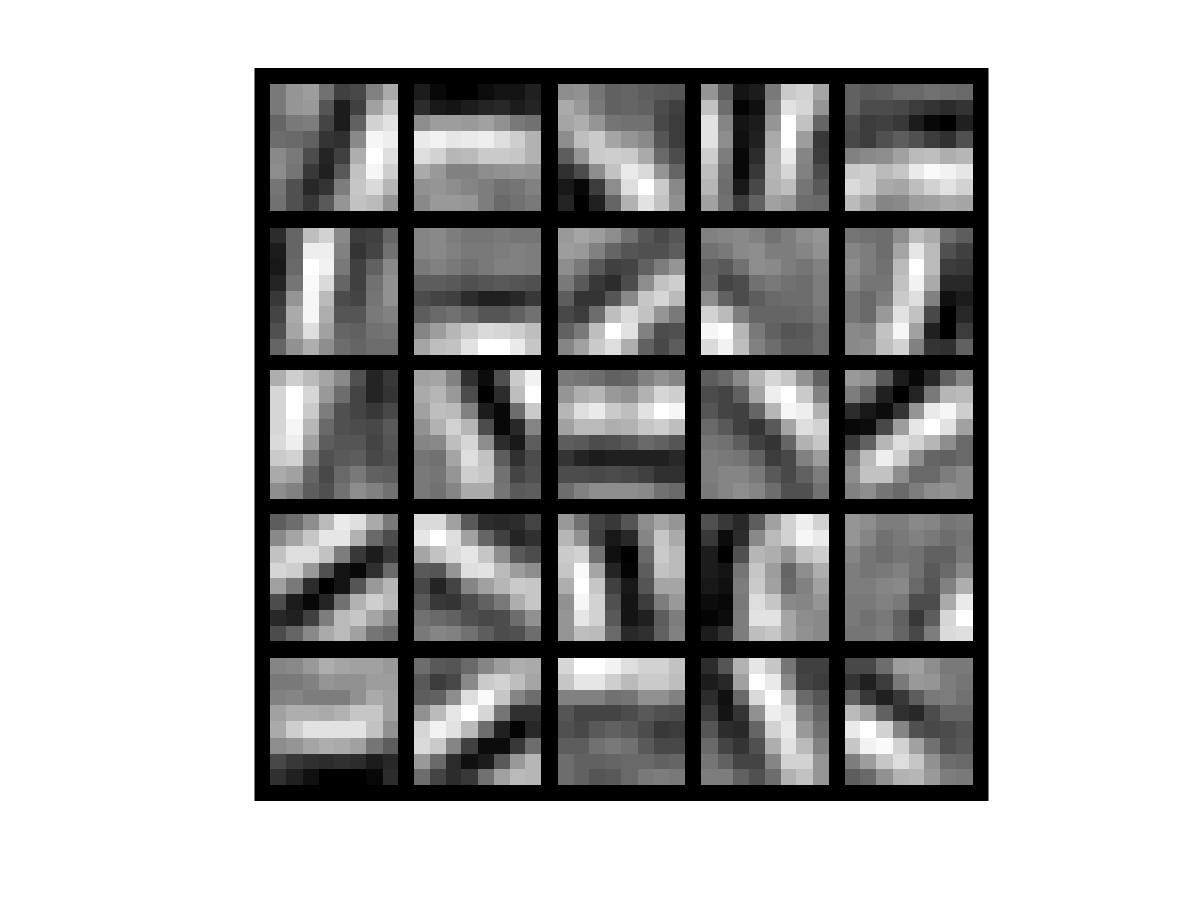
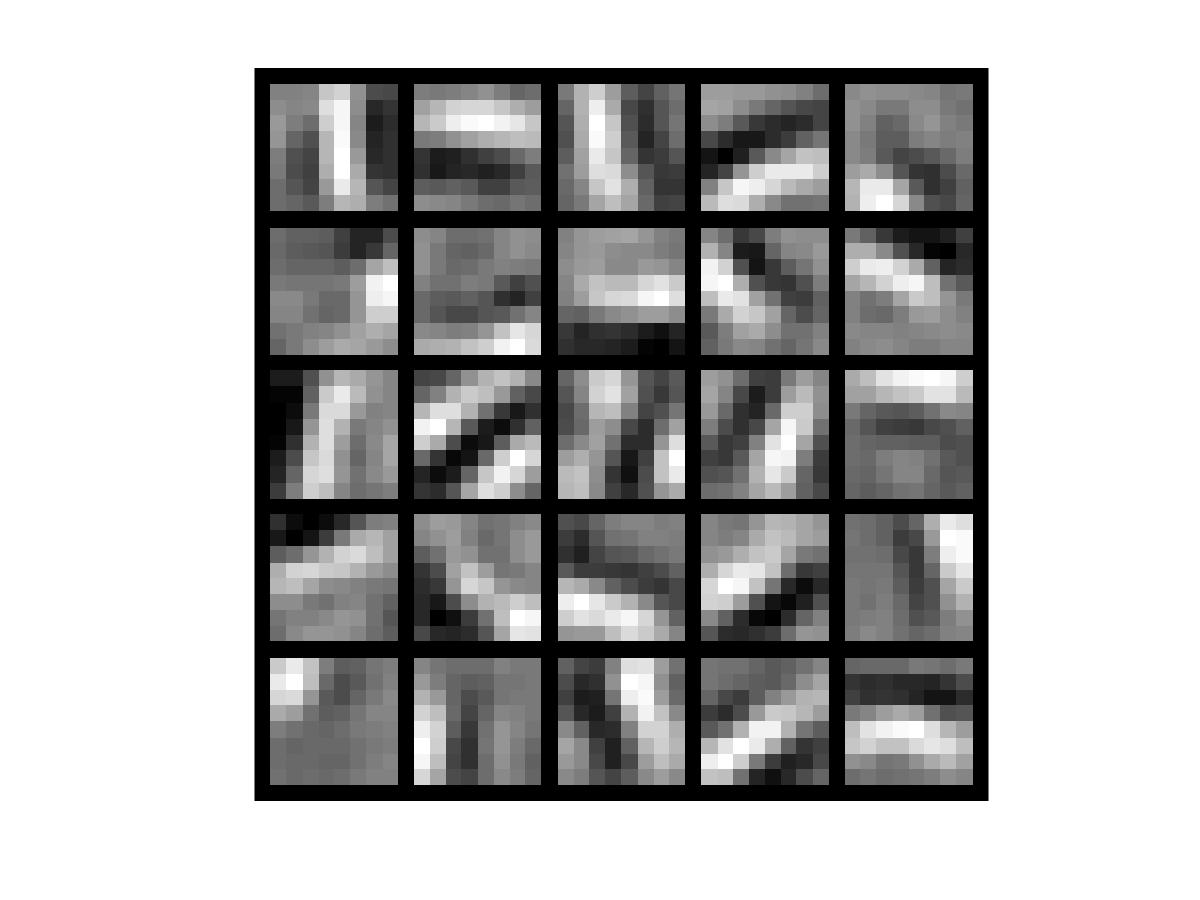
sync.

Changed region(s): [[0.2158, 0.0933, 0.8325, 0.8711]]

diff --git a/Implement deep networks for digit classification/sparseAutoencoderCost_old.m b/Implement deep networks for digit classification/sparseAutoencoderCost_old.m
@@ -48,22 +48,22 @@ z2 = bsxfun(@plus, W1 * data, b1);
 a2 = sigmoid(z2);
 % z3 = W2 * a2 + b2; % 64 * 10000
 z3 = bsxfun(@plus, W2 * a2, b2);
-a3 = sigmoid(z3);
+Ans = sigmoid(z3);
 
 m = size(data, 2);
 
 p = sum(a2, 2) ./ m;
 sp = sparsityParam;
 
-J = sum(sum((a3 - data) .^ 2)) ./ (2 * m) + ...
+J = sum(sum((Ans - data) .^ 2)) ./ (2 * m) + ...
       lambda * (sum(sum(W1 .^ 2)) + sum(sum(W2 .^ 2))) / 2 + ...
       beta * sum(sp .* log(sp ./ p) + (1 - sp) .* log((1 - sp) ./ (1 - p))); 
 
-o3 = (a3 - data) .* dsigmoid(a3);
+o3 = (Ans - data) .* dsigmoid(z3);
 dw2 = o3 * a2';
 db2 = sum(o3, 2);
 o2 = bsxfun(@plus, W2' * o3, beta .* ((1 - sp) ./ (1 - p) - (sp ./ p)));
-o2 = o2 .* dsigmoid(a2);
+o2 = o2 .* dsigmoid(z2);
 dw1 = o2 * data';
 db1 = sum(o2, 2);
 

diff --git a/Self-Taught Learning/sparseAutoencoderCost.m b/Self-Taught Learning/sparseAutoencoderCost.m
@@ -48,22 +48,22 @@ z2 = bsxfun(@plus, W1 * data, b1);
 a2 = sigmoid(z2);
 % z3 = W2 * a2 + b2; % 64 * 10000
 z3 = bsxfun(@plus, W2 * a2, b2);
-Ans = sigmoid(z3);
+a3 = sigmoid(z3);
 
 m = size(data, 2);
 
 p = sum(a2, 2) ./ m;
 sp = sparsityParam;
 
-J = sum(sum((Ans - data) .^ 2)) ./ (2 * m) + ...
+J = sum(sum((a3 - data) .^ 2)) ./ (2 * m) + ...
       lambda * (sum(sum(W1 .^ 2)) + sum(sum(W2 .^ 2))) / 2 + ...
       beta * sum(sp .* log(sp ./ p) + (1 - sp) .* log((1 - sp) ./ (1 - p))); 
 
-o3 = (Ans - data) .* dsigmoid(z3);
+o3 = (a3 - data) .* dsigmoid(a3);
 dw2 = o3 * a2';
 db2 = sum(o3, 2);
 o2 = bsxfun(@plus, W2' * o3, beta .* ((1 - sp) ./ (1 - p) - (sp ./ p)));
-o2 = o2 .* dsigmoid(z2);
+o2 = o2 .* dsigmoid(a2);
 dw1 = o2 * data';
 db1 = sum(o2, 2);
 

diff --git a/Sparse Autoencoder/sparseae_exercise/starter/sparseAutoencoderCost.m b/Sparse Autoencoder/sparseae_exercise/starter/sparseAutoencoderCost.m
@@ -48,22 +48,22 @@ z2 = bsxfun(@plus, W1 * data, b1);
 a2 = sigmoid(z2);
 % z3 = W2 * a2 + b2; % 64 * 10000
 z3 = bsxfun(@plus, W2 * a2, b2);
-Ans = sigmoid(z3);
+a3 = sigmoid(z3);
 
 m = size(data, 2);
 
 p = sum(a2, 2) ./ m;
 sp = sparsityParam;
 
-J = sum(sum((Ans - data) .^ 2)) ./ (2 * m) + ...
+J = sum(sum((a3 - data) .^ 2)) ./ (2 * m) + ...
       lambda * (sum(sum(W1 .^ 2)) + sum(sum(W2 .^ 2))) / 2 + ...
       beta * sum(sp .* log(sp ./ p) + (1 - sp) .* log((1 - sp) ./ (1 - p))); 
 
-o3 = (Ans - data) .* dsigmoid(z3);
+o3 = (a3 - data) .* dsigmoid(a3);
 dw2 = o3 * a2';
 db2 = sum(o3, 2);
 o2 = bsxfun(@plus, W2' * o3, beta .* ((1 - sp) ./ (1 - p) - (sp ./ p)));
-o2 = o2 .* dsigmoid(z2);
+o2 = o2 .* dsigmoid(a2);
 dw1 = o2 * data';
 db1 = sum(o2, 2);
 

diff --git a/Vectorization/sparseAutoencoderCost.m b/Vectorization/sparseAutoencoderCost.m
@@ -48,22 +48,22 @@ z2 = bsxfun(@plus, W1 * data, b1);
 a2 = sigmoid(z2);
 % z3 = W2 * a2 + b2; % 64 * 10000
 z3 = bsxfun(@plus, W2 * a2, b2);
-Ans = sigmoid(z3);
+a3 = sigmoid(z3);
 
 m = size(data, 2);
 
 p = sum(a2, 2) ./ m;
 sp = sparsityParam;
 
-J = sum(sum((Ans - data) .^ 2)) ./ (2 * m) + ...
+J = sum(sum((a3 - data) .^ 2)) ./ (2 * m) + ...
       lambda * (sum(sum(W1 .^ 2)) + sum(sum(W2 .^ 2))) / 2 + ...
       beta * sum(sp .* log(sp ./ p) + (1 - sp) .* log((1 - sp) ./ (1 - p))); 
 
-o3 = (Ans - data) .* dsigmoid(z3);
+o3 = (a3 - data) .* dsigmoid(a3);
 dw2 = o3 * a2';
 db2 = sum(o3, 2);
 o2 = bsxfun(@plus, W2' * o3, beta .* ((1 - sp) ./ (1 - p) - (sp ./ p)));
-o2 = o2 .* dsigmoid(z2);
+o2 = o2 .* dsigmoid(a2);
 dw1 = o2 * data';
 db1 = sum(o2, 2);
 
